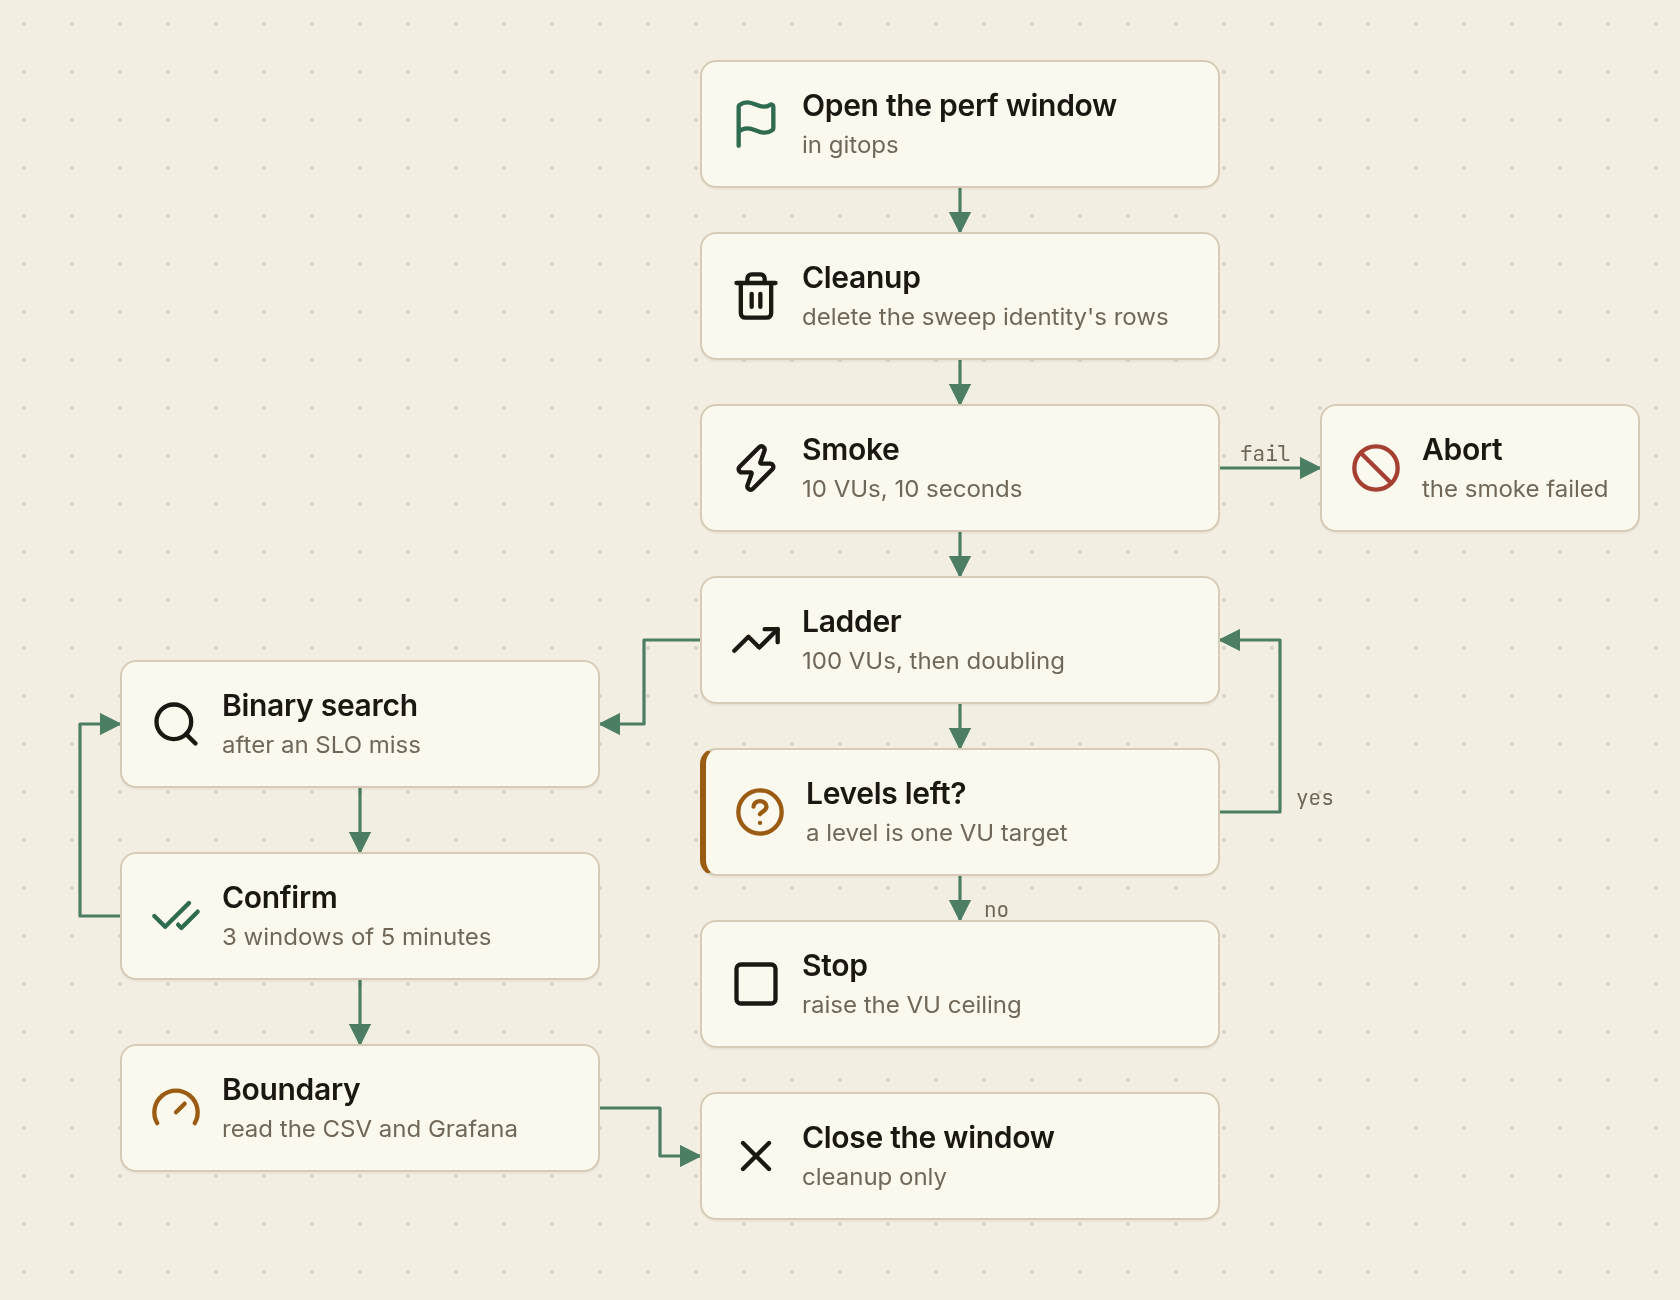
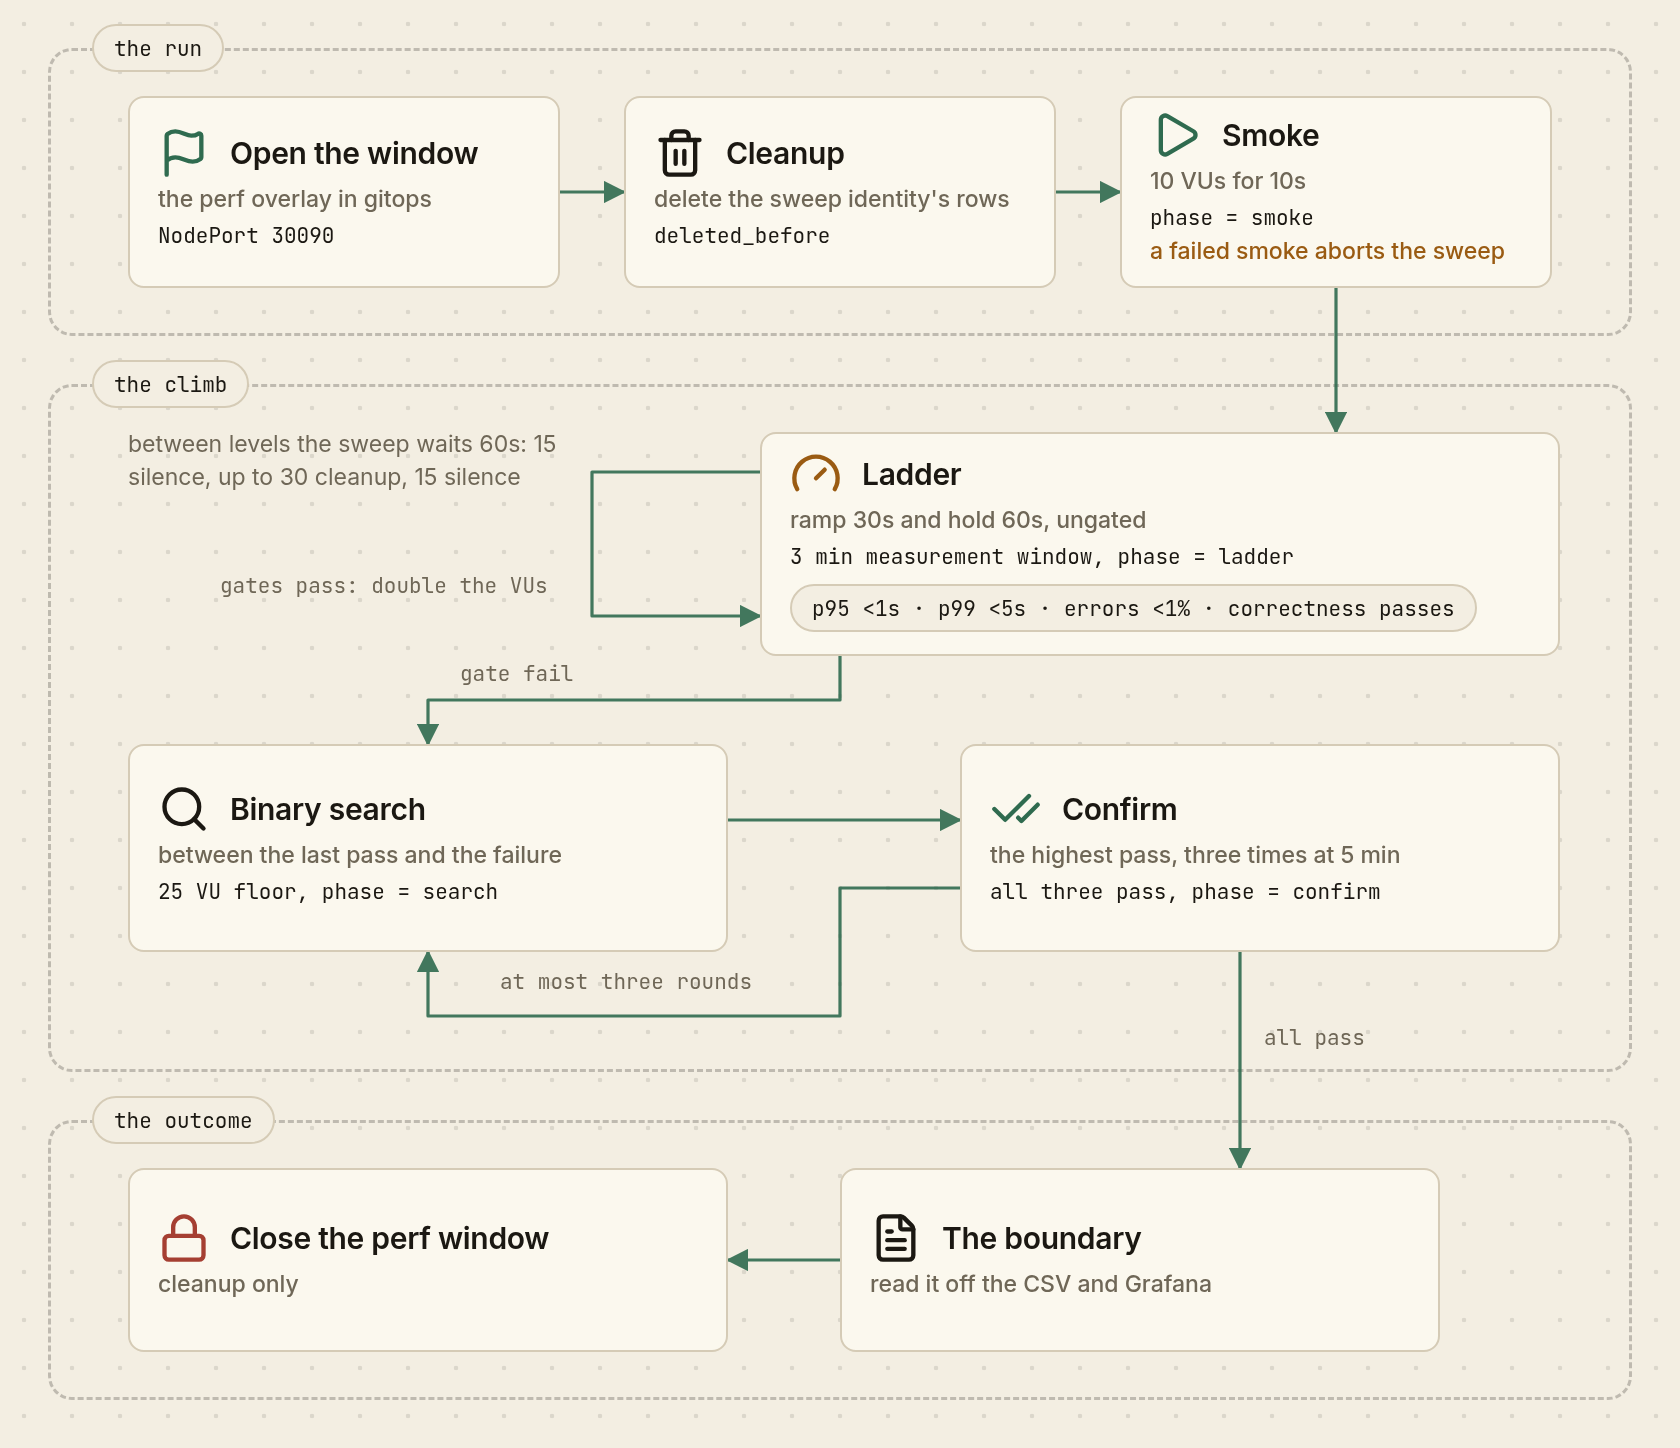
ref(diagram): rebuild the sre sweep flow in zones

diff --git a/frontend/scripts/diagrams/sre-sweep.html b/frontend/scripts/diagrams/sre-sweep.html
@@ -20,7 +20,7 @@
     #canvas {
         position: relative;
         width: 840px;
-        height: 650px;
+        height: 724px;
         overflow: hidden;
         background-color: var(--paper);
         background-image: radial-gradient(circle, rgba(27, 24, 18, 0.11) 1px, transparent 1.3px);
@@ -29,23 +29,69 @@
         color: var(--ink);
     }
     #wires { position: absolute; inset: 0; z-index: 1; }
-    .step {
+
+    .zone {
+        position: absolute;
+        border: 1.5px dashed rgba(27, 24, 18, 0.24);
+        border-radius: 12px;
+        z-index: 0;
+    }
+    .zone-label {
+        position: absolute;
+        display: flex;
+        align-items: center;
+        height: 24px;
+        padding: 0 10px;
+        background: var(--paper);
+        border: 1px solid var(--line);
+        border-radius: 99px;
+        z-index: 3;
+        white-space: nowrap;
+        font-family: "JetBrains Mono", "DejaVu Sans Mono", monospace;
+        font-size: 10.5px;
+        color: var(--ink);
+    }
+
+    .card {
         position: absolute;
         display: flex;
         flex-direction: column;
         justify-content: center;
-        padding: 12px 14px 12px 50px;
+        padding: 10px 14px;
         background: var(--panel);
         border: 1px solid var(--line);
         border-radius: 8px;
         z-index: 2;
-        box-shadow: 0 1px 0 rgba(27, 24, 18, 0.04);
     }
-    .step.decide { border-left: 3px solid var(--amber); }
-    .step .title { font-size: 15px; font-weight: 600; letter-spacing: -0.01em; line-height: 1.2; }
-    .step .sub { margin-top: 3px; font-size: 12px; color: var(--muted); line-height: 1.3; }
+    .hdr { display: flex; align-items: flex-start; gap: 10px; }
+    .hdr img { width: 26px; height: 26px; flex: none; margin-top: -4px; }
+    .title { font-size: 15px; font-weight: 600; letter-spacing: -0.01em; line-height: 1.2; }
+    .sub { margin-top: 3px; font-size: 11.5px; font-weight: 500; color: var(--muted); line-height: 1.3; }
+    .mono {
+        margin-top: 4px;
+        font-family: "JetBrains Mono", "DejaVu Sans Mono", monospace;
+        font-size: 10.5px;
+        color: var(--ink);
+        line-height: 1.25;
+    }
+    .sub.warn { color: var(--amber); }
+    .gates {
+        display: inline-flex;
+        align-items: center;
+        align-self: flex-start;
+        height: 24px;
+        margin-top: 7px;
+        padding: 0 10px;
+        background: var(--paper);
+        border: 1px solid var(--line);
+        border-radius: 99px;
+        font-family: "JetBrains Mono", "DejaVu Sans Mono", monospace;
+        font-size: 10.5px;
+        color: var(--ink);
+        white-space: nowrap;
+    }
 
-    .label {
+    .wlabel {
         position: absolute;
         font-family: "JetBrains Mono", "DejaVu Sans Mono", monospace;
         font-size: 10.5px;
@@ -53,102 +99,96 @@
         z-index: 3;
         white-space: nowrap;
     }
-    .step img.ic, .note img.ic { position: absolute; left: 14px; top: 50%; transform: translateY(-50%); width: 26px; height: 26px; }
+    .note {
+        position: absolute;
+        width: 240px;
+        font-size: 11.5px;
+        line-height: 1.45;
+        color: var(--muted);
+        z-index: 3;
+    }
 </style>
 </head>
 <body>
 <div id="canvas">
-    <svg id="wires" viewBox="0 0 840 650" xmlns="http://www.w3.org/2000/svg">
+    <svg id="wires" viewBox="0 0 840 724" xmlns="http://www.w3.org/2000/svg">
         <defs>
             <marker id="arrow" viewBox="0 0 10 10" refX="9" refY="5" markerWidth="7" markerHeight="7" orient="auto-start-reverse">
                 <path d="M0,0 L10,5 L0,10 Z" fill="#2f6b4f" />
             </marker>
         </defs>
-        <g fill="none" stroke="#2f6b4f" stroke-width="1.6" stroke-linecap="round" stroke-linejoin="round" opacity="0.85">
-            <path d="M480,94 V116" marker-end="url(#arrow)" />
-            <path d="M480,180 V202" marker-end="url(#arrow)" />
-            <path d="M480,266 V288" marker-end="url(#arrow)" />
-            <path d="M480,352 V374" marker-end="url(#arrow)" />
-            <path d="M480,438 V460" marker-end="url(#arrow)" />
-            <path d="M610,406 H640 V320 H610" marker-end="url(#arrow)" />
-            <path d="M610,234 H660" marker-end="url(#arrow)" />
-            <path d="M350,320 H322 V362 H300" marker-end="url(#arrow)" />
-            <path d="M180,394 V426" marker-end="url(#arrow)" />
-            <path d="M60,458 H40 V362 H60" marker-end="url(#arrow)" />
-            <path d="M180,490 V522" marker-end="url(#arrow)" />
-            <path d="M300,554 H330 V578 H350" marker-end="url(#arrow)" />
+        <g fill="none" stroke="#2f6b4f" stroke-width="1.6" stroke-linecap="round" stroke-linejoin="round" opacity="0.9">
+            <path d="M280,96 H312" marker-end="url(#arrow)" />
+            <path d="M528,96 H560" marker-end="url(#arrow)" />
+            <path d="M668,144 V216" marker-end="url(#arrow)" />
+            <path d="M380,236 H296 V308 H380" marker-end="url(#arrow)" />
+            <path d="M420,328 V350 H214 V372" marker-end="url(#arrow)" />
+            <path d="M364,410 H480" marker-end="url(#arrow)" />
+            <path d="M480,444 H420 V508 H214 V476" marker-end="url(#arrow)" />
+            <path d="M620,476 V584" marker-end="url(#arrow)" />
+            <path d="M420,630 H364" marker-end="url(#arrow)" />
         </g>
     </svg>
 
-    <div class="step" style="left:350px; top:30px; width:260px; height:64px;">
-        <img class="ic" src="icons/line/flag.svg" alt="" />
-        <div class="title">Open the perf window</div>
-        <div class="sub">in gitops</div>
-    </div>
+    <div class="zone" style="left:24px; top:24px; width:792px; height:144px;"></div>
+    <div class="zone-label" style="left:46px; top:12px;">the run</div>
 
-    <div class="step" style="left:350px; top:116px; width:260px; height:64px;">
-        <img class="ic" src="icons/line/trash-2.svg" alt="" />
-        <div class="title">Cleanup</div>
+    <div class="card" style="left:64px; top:48px; width:216px; height:96px;">
+        <div class="hdr"><img src="icons/line/flag.svg" alt="" /><div class="title">Open the window</div></div>
+        <div class="sub">the perf overlay in gitops</div>
+        <div class="mono">NodePort 30090</div>
+    </div>
+    <div class="card" style="left:312px; top:48px; width:216px; height:96px;">
+        <div class="hdr"><img src="icons/line/trash-2.svg" alt="" /><div class="title">Cleanup</div></div>
         <div class="sub">delete the sweep identity's rows</div>
+        <div class="mono">deleted_before</div>
+    </div>
+    <div class="card" style="left:560px; top:48px; width:216px; height:96px;">
+        <div class="hdr"><img src="icons/line/play.svg" alt="" /><div class="title">Smoke</div></div>
+        <div class="sub">10 VUs for 10s</div>
+        <div class="mono">phase = smoke</div>
+        <div class="sub warn">a failed smoke aborts the sweep</div>
     </div>
 
-    <div class="step" style="left:350px; top:202px; width:260px; height:64px;">
-        <img class="ic" src="icons/line/zap.svg" alt="" />
-        <div class="title">Smoke</div>
-        <div class="sub">10 VUs, 10 seconds</div>
+    <div class="zone" style="left:24px; top:192px; width:792px; height:344px;"></div>
+    <div class="zone-label" style="left:46px; top:180px;">the climb</div>
+
+    <div class="note" style="left:64px; top:214px;">between levels the sweep waits 60s: 15 silence, up to 30 cleanup, 15 silence</div>
+    <div class="wlabel" style="left:110px; top:286px;">gates pass: double the VUs</div>
+
+    <div class="card" style="left:380px; top:216px; width:400px; height:112px;">
+        <div class="hdr"><img src="icons/line/gauge.svg" alt="" /><div class="title">Ladder</div></div>
+        <div class="sub">ramp 30s and hold 60s, ungated</div>
+        <div class="mono">3 min measurement window, phase = ladder</div>
+        <div class="gates">p95 &lt;1s &#183; p99 &lt;5s &#183; errors &lt;1% &#183; correctness passes</div>
     </div>
 
-    <div class="step" style="left:350px; top:288px; width:260px; height:64px;">
-        <img class="ic" src="icons/line/trending-up.svg" alt="" />
-        <div class="title">Ladder</div>
-        <div class="sub">100 VUs, then doubling</div>
+    <div class="card" style="left:64px; top:372px; width:300px; height:104px;">
+        <div class="hdr"><img src="icons/line/search.svg" alt="" /><div class="title">Binary search</div></div>
+        <div class="sub">between the last pass and the failure</div>
+        <div class="mono">25 VU floor, phase = search</div>
+    </div>
+    <div class="card" style="left:480px; top:372px; width:300px; height:104px;">
+        <div class="hdr"><img src="icons/line/check-check.svg" alt="" /><div class="title">Confirm</div></div>
+        <div class="sub">the highest pass, three times at 5 min</div>
+        <div class="mono">all three pass, phase = confirm</div>
     </div>
 
-    <div class="step decide" style="left:350px; top:374px; width:260px; height:64px;">
-        <img class="ic" src="icons/line/circle-help.svg" alt="" />
-        <div class="title">Levels left?</div>
-        <div class="sub">a level is one VU target</div>
-    </div>
+    <div class="wlabel" style="left:230px; top:330px;">gate fail</div>
+    <div class="wlabel" style="left:250px; top:484px;">at most three rounds</div>
+    <div class="wlabel" style="left:632px; top:512px;">all pass</div>
 
-    <div class="step terminal" style="left:350px; top:460px; width:260px; height:64px;">
-        <img class="ic" src="icons/line/square.svg" alt="" />
-        <div class="title">Stop</div>
-        <div class="sub">raise the VU ceiling</div>
-    </div>
+    <div class="zone" style="left:24px; top:560px; width:792px; height:140px;"></div>
+    <div class="zone-label" style="left:46px; top:548px;">the outcome</div>
 
-    <div class="step terminal" style="left:350px; top:546px; width:260px; height:64px;">
-        <img class="ic" src="icons/line/x.svg" alt="" />
-        <div class="title">Close the window</div>
+    <div class="card" style="left:420px; top:584px; width:300px; height:92px;">
+        <div class="hdr"><img src="icons/line/file-text.svg" alt="" /><div class="title">The boundary</div></div>
+        <div class="sub">read it off the CSV and Grafana</div>
+    </div>
+    <div class="card" style="left:64px; top:584px; width:300px; height:92px;">
+        <div class="hdr"><img src="icons/line/lock.svg" alt="" /><div class="title">Close the perf window</div></div>
         <div class="sub">cleanup only</div>
     </div>
-
-    <div class="step" style="left:60px; top:330px; width:240px; height:64px;">
-        <img class="ic" src="icons/line/search.svg" alt="" />
-        <div class="title">Binary search</div>
-        <div class="sub">after an SLO miss</div>
-    </div>
-
-    <div class="step" style="left:60px; top:426px; width:240px; height:64px;">
-        <img class="ic" src="icons/line/check-check.svg" alt="" />
-        <div class="title">Confirm</div>
-        <div class="sub">3 windows of 5 minutes</div>
-    </div>
-
-    <div class="step" style="left:60px; top:522px; width:240px; height:64px;">
-        <img class="ic" src="icons/line/gauge.svg" alt="" />
-        <div class="title">Boundary</div>
-        <div class="sub">read the CSV and Grafana</div>
-    </div>
-
-    <div class="step terminal" style="left:660px; top:202px; width:160px; height:64px;">
-        <img class="ic" src="icons/line/ban.svg" alt="" />
-        <div class="title">Abort</div>
-        <div class="sub">the smoke failed</div>
-    </div>
-
-    <div class="label" style="left:620px; top:220px;">fail</div>
-    <div class="label" style="left:648px; top:392px;">yes</div>
-    <div class="label" style="left:492px; top:448px;">no</div>
 </div>
 </body>
 </html>
